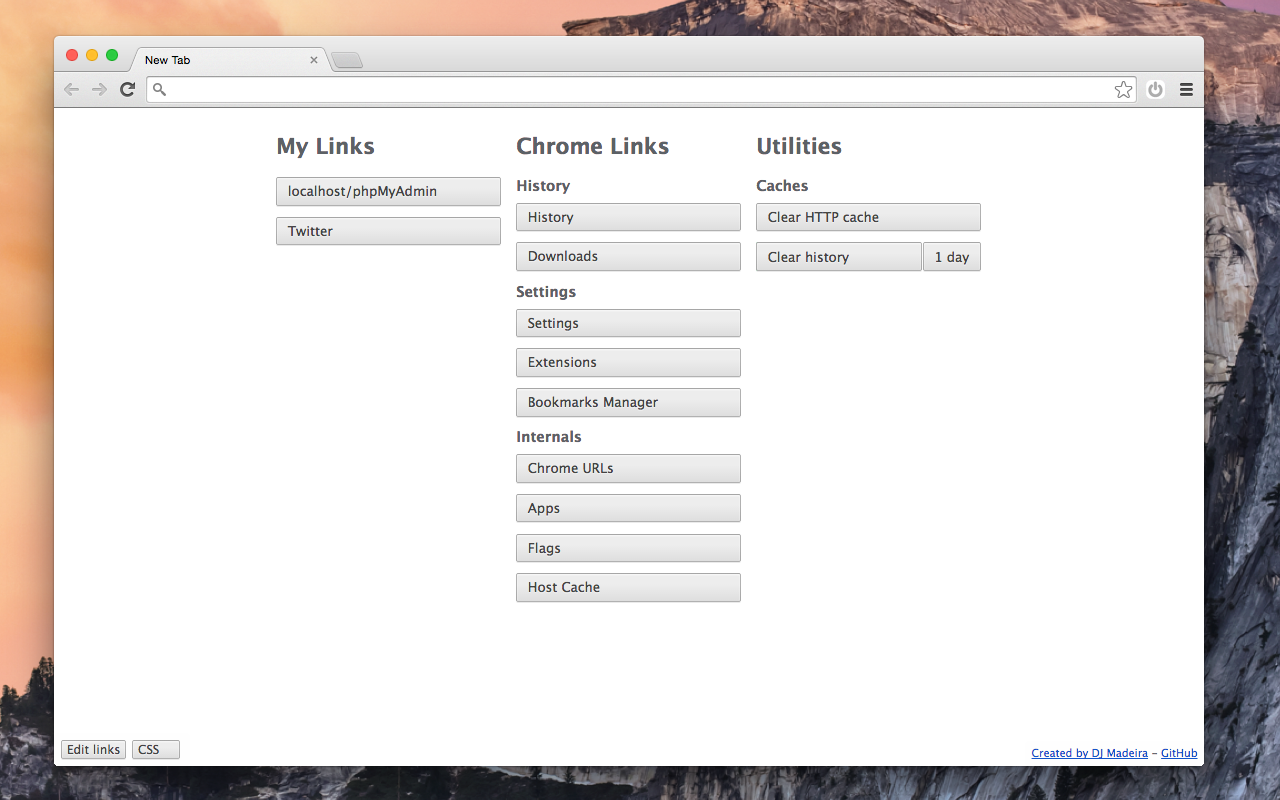
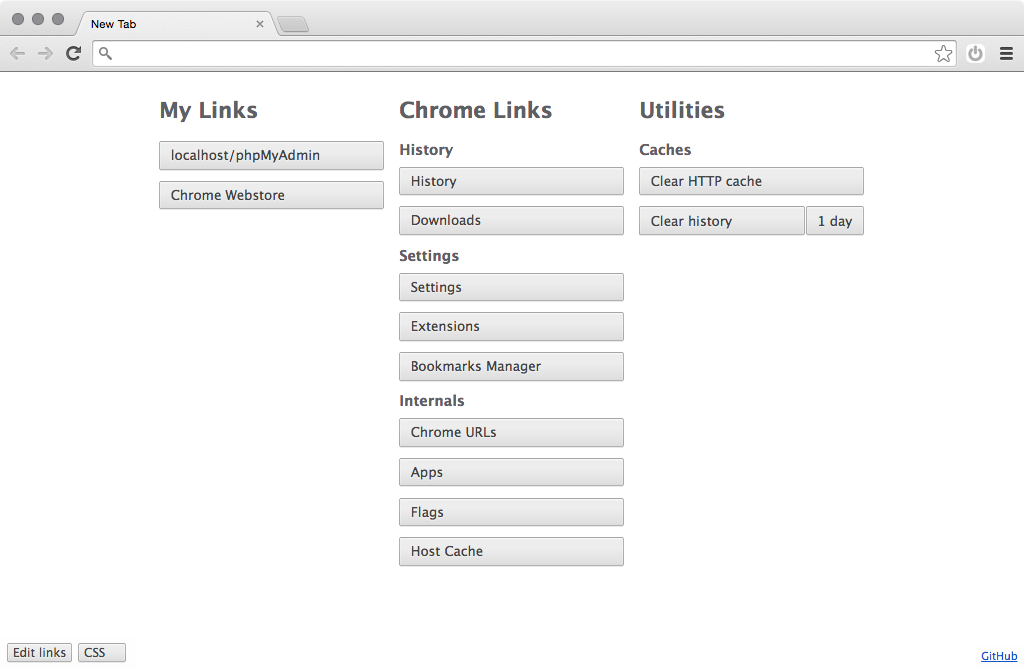
cleaned up credit

Changed region(s): [[0.0, 0.0, 1.0, 1.0]]

diff --git a/build/html/newtab.html b/build/html/newtab.html
@@ -3,6 +3,8 @@
   <link rel="stylesheet" href="../../css/main.min.css?inline=true">
   <style id="custom-css" type="text/css"></style>
   <script type="text/javascript" src="js/main.min.js"></script>
+  <meta name="X-YouViewedSource" content="true dat">
+  <meta name="X-twitter" content="dj_madeira">
   <template id="custom-link-template"><li><a class="button custom-link" href="{{href}}">{{title}}</a><button class="edit-button remove">Remove</button></li></template>
   <template id="new-link-template"><li id="new-link" class="new-link"><input type="text" id="new-link-title" class="new-link-input" placeholder="title"><input type="text" id="new-link-href" class="new-link-input" placeholder="url"><button id="new-link-confirm" class="edit-button confirm">Done</button></li></template>
 </head>
@@ -44,5 +46,5 @@
       <textarea id="custom-css-field" class="css-text overlay-content" placeholder="Type some CSS here"></textarea>
     </div>
   </section>
-  <footer class="credit"><a href="http://djmadeira.com">Created by DJ Madeira</a> - <a class="github" href="https://github.com/djmadeira/lightweight-new-tab-page">GitHub</a></footer>
+  <footer class="credit"><a class="github" href="https://github.com/djmadeira/lightweight-new-tab-page">GitHub</a></footer>
 </body>

diff --git a/newtab.html b/newtab.html
@@ -211,6 +211,8 @@ textarea {
 </style>
   <style id="custom-css" type="text/css"></style>
   <script type="text/javascript" src="js/main.min.js"></script>
+  <meta name="X-YouViewedSource" content="true dat">
+  <meta name="X-twitter" content="dj_madeira">
   <template id="custom-link-template"><li><a class="button custom-link" href="{{href}}">{{title}}</a><button class="edit-button remove">Remove</button></li></template>
   <template id="new-link-template"><li id="new-link" class="new-link"><input type="text" id="new-link-title" class="new-link-input" placeholder="title"><input type="text" id="new-link-href" class="new-link-input" placeholder="url"><button id="new-link-confirm" class="edit-button confirm">Done</button></li></template>
 </head>
@@ -252,5 +254,5 @@ textarea {
       <textarea id="custom-css-field" class="css-text overlay-content" placeholder="Type some CSS here"></textarea>
     </div>
   </section>
-  <footer class="credit"><a href="http://djmadeira.com">Created by DJ Madeira</a> - <a class="github" href="https://github.com/djmadeira/lightweight-new-tab-page">GitHub</a></footer>
+  <footer class="credit"><a class="github" href="https://github.com/djmadeira/lightweight-new-tab-page">GitHub</a></footer>
 </body>

diff --git a/pkg/newtab.html b/pkg/newtab.html
@@ -211,6 +211,8 @@ textarea {
 </style>
   <style id="custom-css" type="text/css"></style>
   <script type="text/javascript" src="js/main.min.js"></script>
+  <meta name="X-YouViewedSource" content="true dat">
+  <meta name="X-twitter" content="dj_madeira">
   <template id="custom-link-template"><li><a class="button custom-link" href="{{href}}">{{title}}</a><button class="edit-button remove">Remove</button></li></template>
   <template id="new-link-template"><li id="new-link" class="new-link"><input type="text" id="new-link-title" class="new-link-input" placeholder="title"><input type="text" id="new-link-href" class="new-link-input" placeholder="url"><button id="new-link-confirm" class="edit-button confirm">Done</button></li></template>
 </head>
@@ -252,5 +254,5 @@ textarea {
       <textarea id="custom-css-field" class="css-text overlay-content" placeholder="Type some CSS here"></textarea>
     </div>
   </section>
-  <footer class="credit"><a href="http://djmadeira.com">Created by DJ Madeira</a> - <a class="github" href="https://github.com/djmadeira/lightweight-new-tab-page">GitHub</a></footer>
+  <footer class="credit"><a class="github" href="https://github.com/djmadeira/lightweight-new-tab-page">GitHub</a></footer>
 </body>
